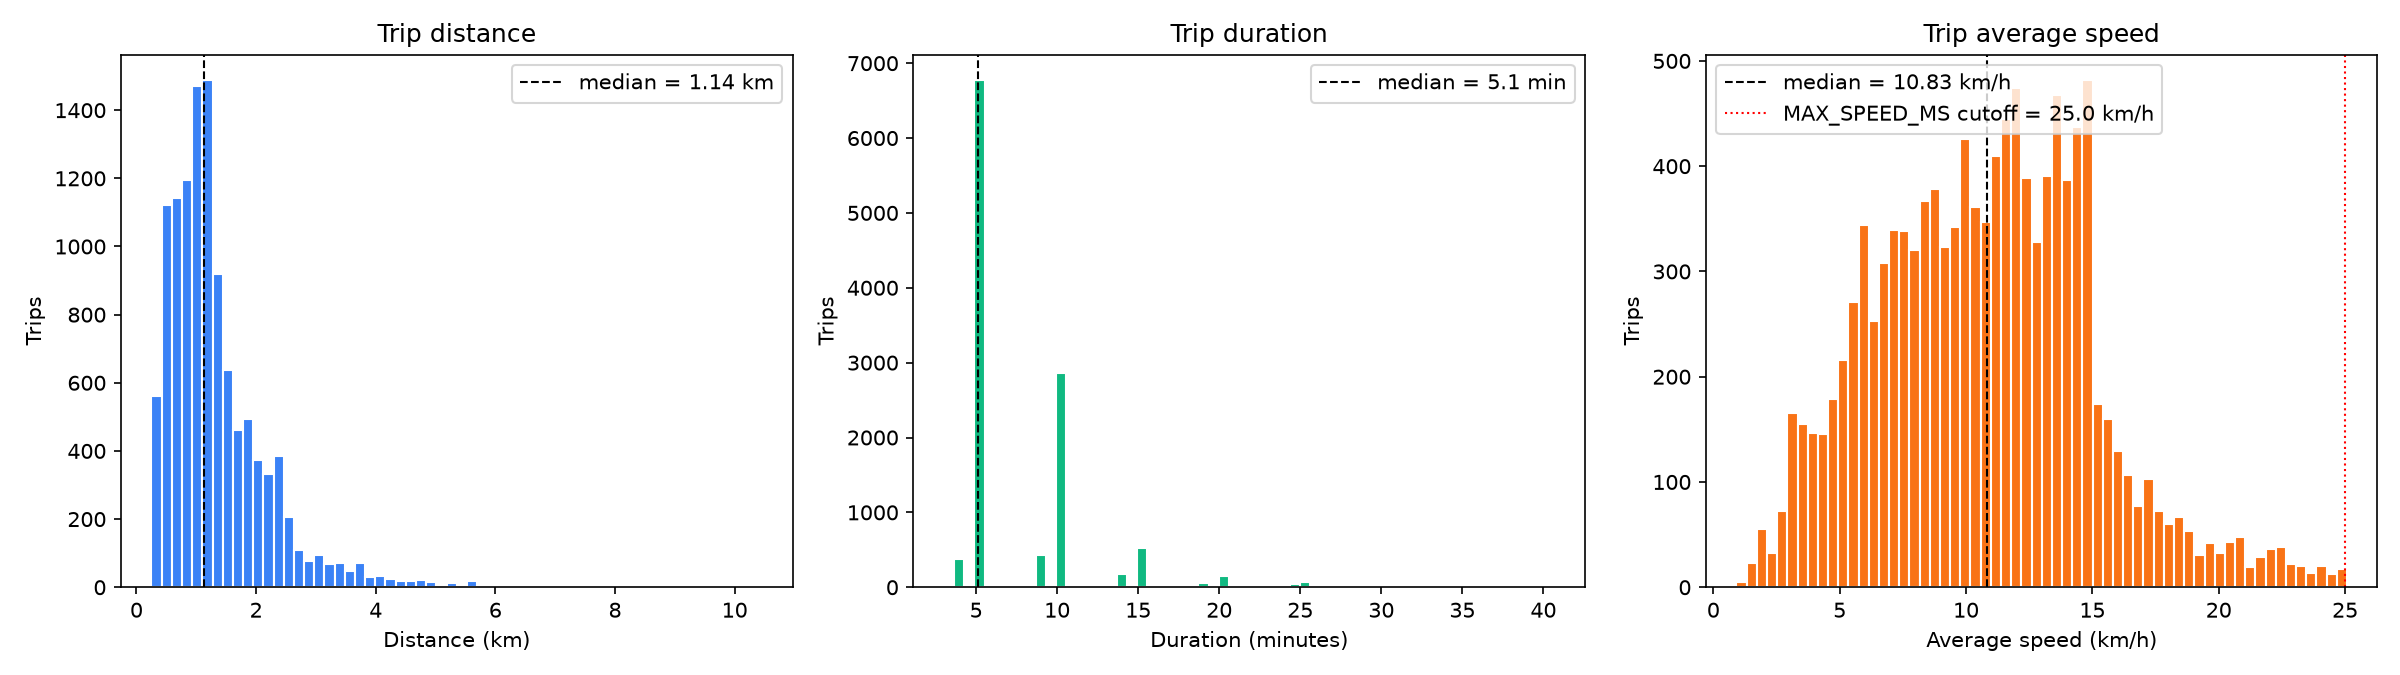
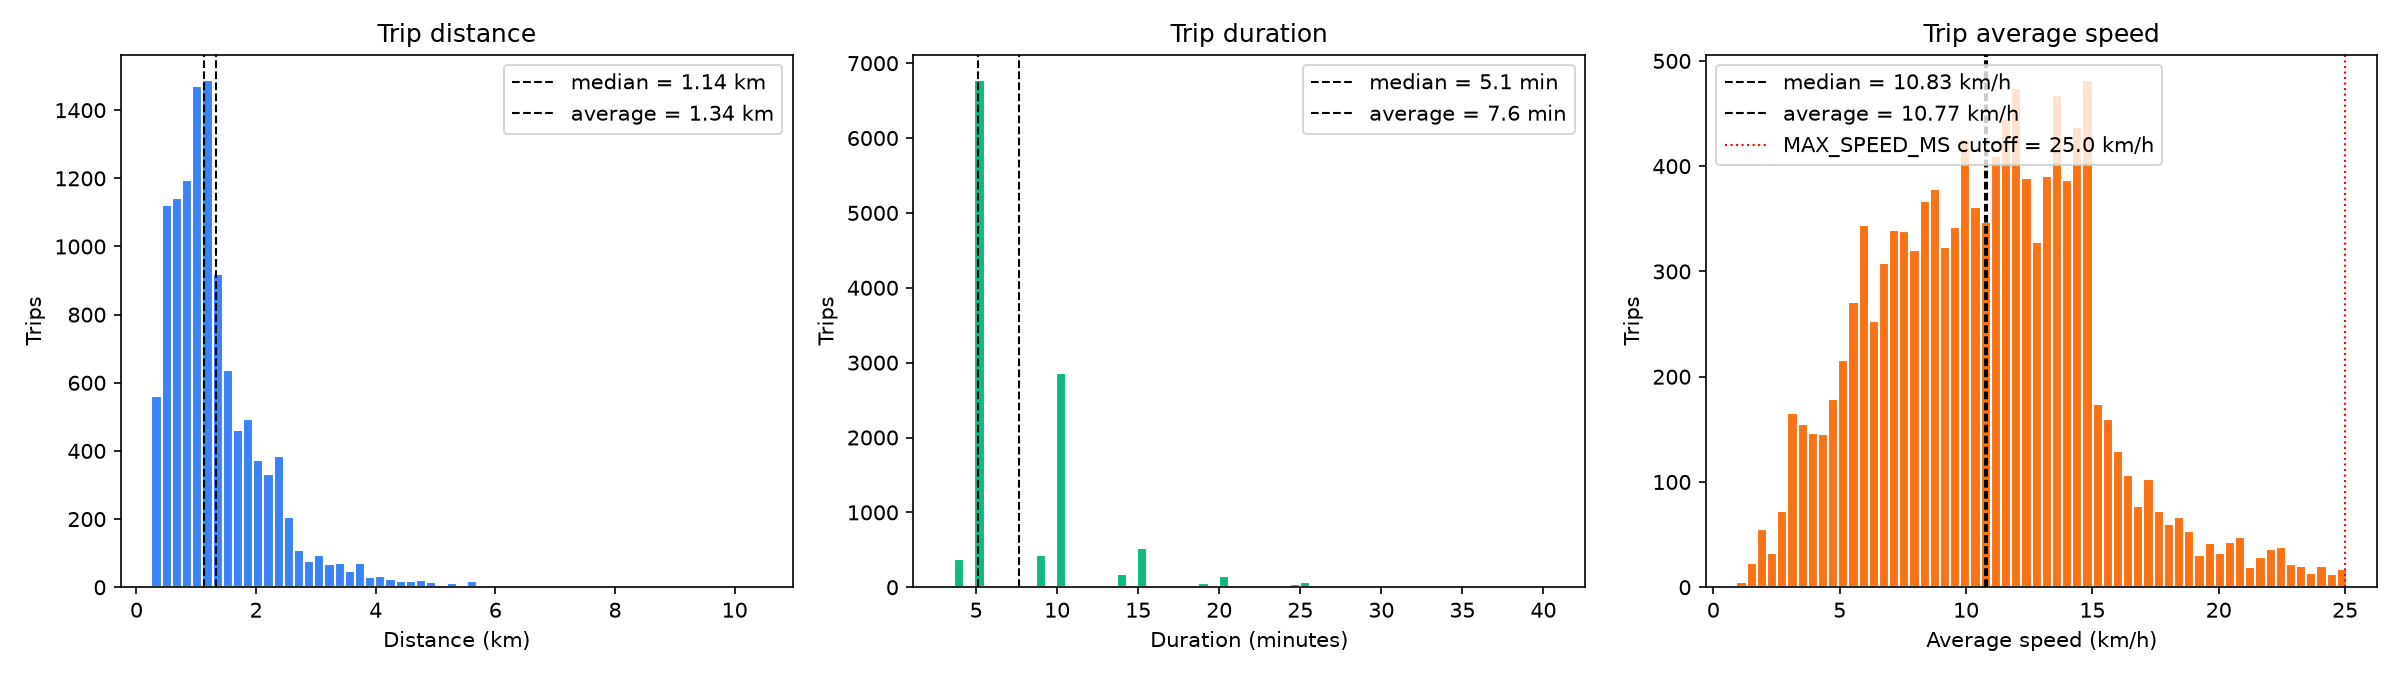
diagnostics to page

Changed region(s): [[0.7188, 0.1556, 0.9062, 0.2489], [0.2188, 0.0933, 0.3438, 0.1867], [0.5625, 0.0933, 0.6562, 0.1867]]

diff --git a/dashboard/src/routes/+page.svelte b/dashboard/src/routes/+page.svelte
@@ -69,4 +69,10 @@
         Ausleihvorgänge stattfinden, während in den Ringgebieten mehr Ausleihvorgänge vollzogen werden.
     </p>
     <img src="/images/event_heatmaps.png" alt="Event Dichteverteilungen" />
+    <h2>Durchschnittliche Strecke</h2>
+    <p>
+        Die durchschnittliche Strecke dauert etwa 7-8 Minuten und ist etwa 1,3 km lang. Die durchschnittliche Geschwindigkeit beträgt dabei etwa 15 km/h. Die nachfolgende Abbildung zeigt die Verteilungen der Streckenlängen, Fahrtdauer und
+        Geschwindigkeit. Ungenauigkeiten ergeben sich durch die Annahme, dass der kürzeste Weg gefahren wird und durch den Umstand, dass die Daten nur in 5-Minuten-Intervallen erhoben wurden.
+    </p>    
+    <img src="/images/trip_diagnostics.png" alt="Event Dichteverteilungen" />
 </div>

diff --git a/veloleo/plot.py b/veloleo/plot.py
@@ -23,6 +23,13 @@ def plot_diagnostics(
         linewidth=1,
         label=f"median = {np.median(distances_km):.2f} km",
     )
+    axes[0].axvline(
+        np.average(distances_km),
+        color="green",
+        linestyle="--",
+        linewidth=1,
+        label=f"average = {np.average(distances_km):.2f} km",
+    )
     axes[0].legend()
 
     axes[1].hist(durations_min, bins=60, color="#10b981", edgecolor="white")
@@ -36,6 +43,13 @@ def plot_diagnostics(
         linewidth=1,
         label=f"median = {np.median(durations_min):.1f} min",
     )
+    axes[1].axvline(
+        np.average(durations_min),
+        color="green",
+        linestyle="--",
+        linewidth=1,
+        label=f"average = {np.average(durations_min):.1f} min",
+    )
     axes[1].legend()
 
     axes[2].hist(speeds_kmh, bins=60, color="#f97316", edgecolor="white")
@@ -48,6 +62,13 @@ def plot_diagnostics(
         linestyle="--",
         linewidth=1,
         label=f"median = {np.median(speeds_kmh):.2f} km/h",
+    )
+    axes[2].axvline(
+        np.average(speeds_kmh),
+        color="green",
+        linestyle="--",
+        linewidth=1,
+        label=f"average = {np.average(speeds_kmh):.2f} km/h",
     )
     axes[2].axvline(
         MAX_SPEED_MS * 3.6,